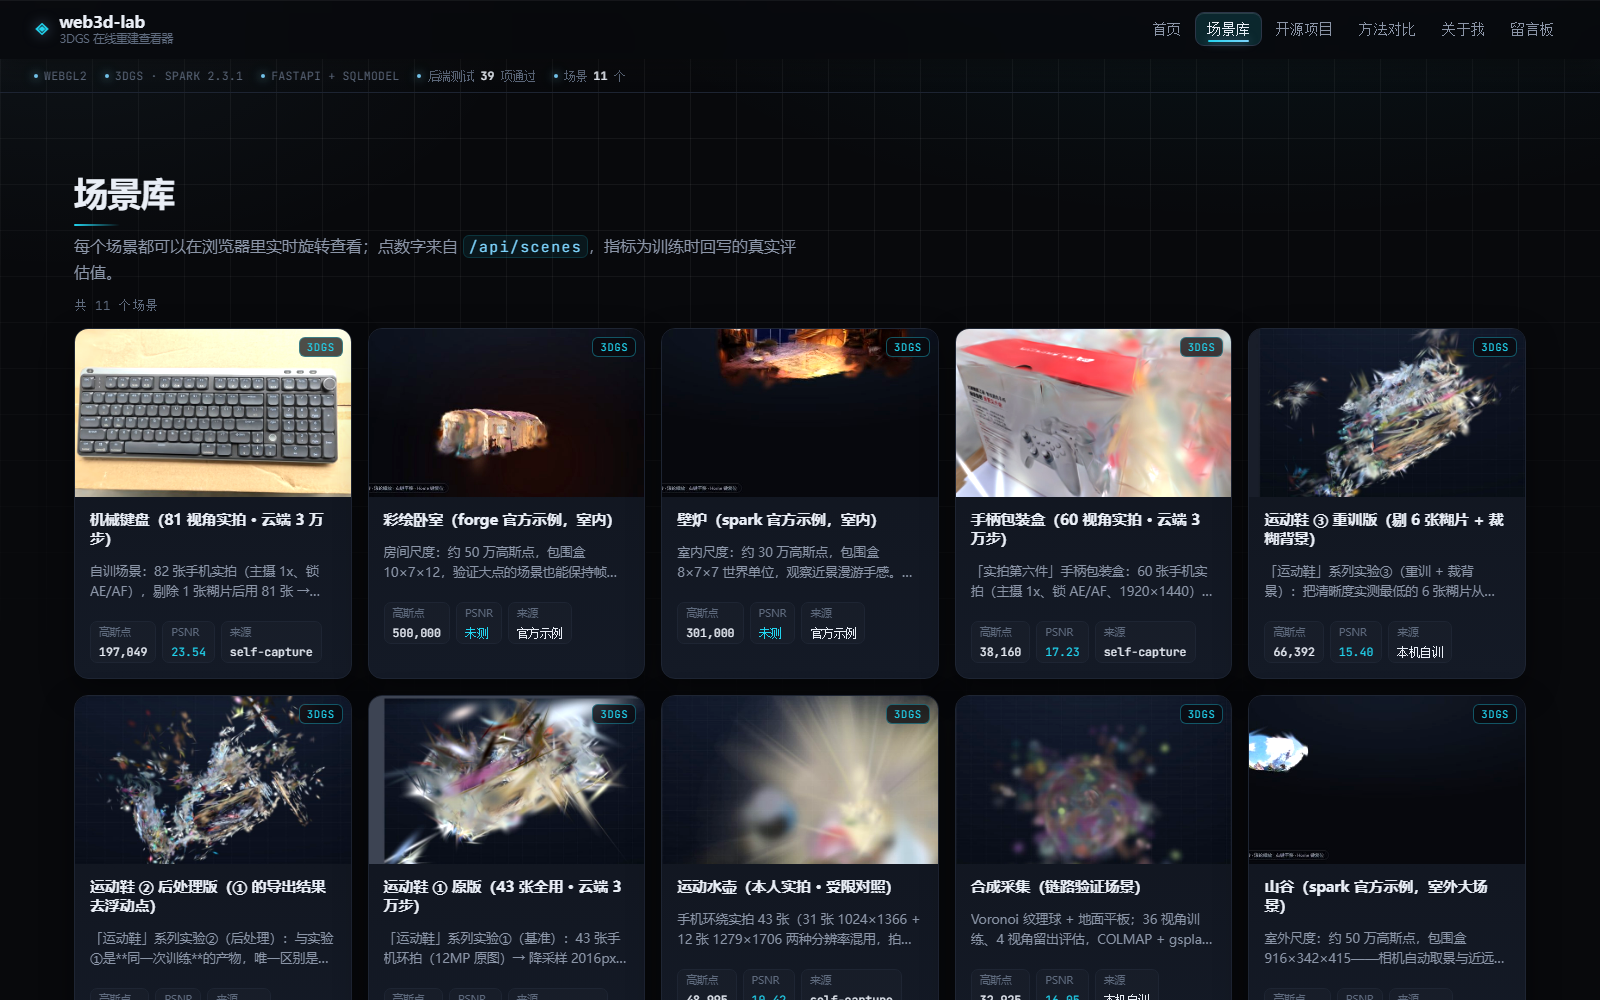
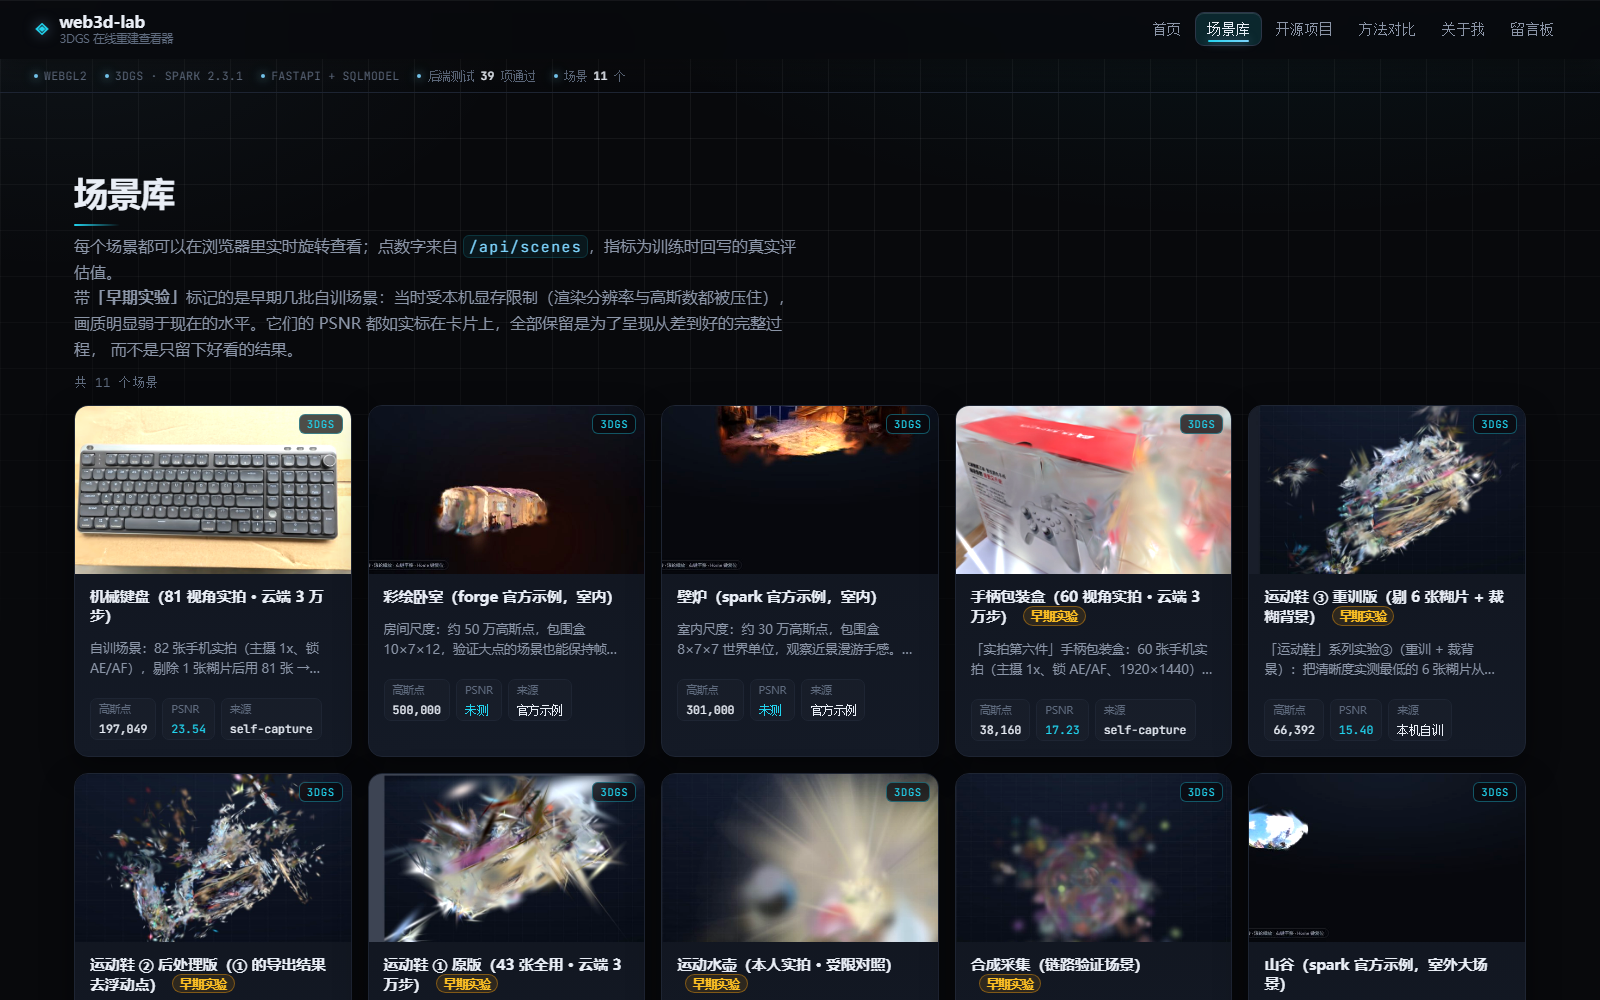
docs(readme): 补 keyboard 场景（最新最好的一批）+ 修两处过时数字 + 记「早期实验」标记与窄屏字号下限
README 停在 keyboard 上线之前：资产表缺 keyboard 行、还写着「自训导出 6 个」「10 个可渲染资产」，
而且 box 那句「目前最好的一批」已过时（keyboard PSNR 23.54 vs box 17.23）。

同时补两段本轮改动：
- 「早期实验」标记的判据（用后端 PSNR < 20 自动判定，不写死名单）与保留理由；
- 窄屏（≤640px）可读性下限（小标签 ≥12px、正文 ≥14px，390px 逐页无横向溢出）。
README 截图同步重拍（场景库这张现在带标记）。

diff --git a/README.md b/README.md
@@ -77,10 +77,14 @@ cd D:/lab/web3d-lab/frontend && npm run dev
 `data-camera` / `data-extent` / `data-bbox` / `data-error`），Playwright 与脚本用它断言，
 不用去猜画面。相关脚本：`frontend/scripts/check_render.py`（截图像素级判空画布）。
 
+**窄屏（≤640px）可读性下限**：小标签字号 ≥ **12px**、正文 ≥ **14px**；390px 手机宽度下逐页实测
+`scrollWidth` 等于视口宽（无横向溢出）。改之前场景详情页有 20/78 个文字节点小于 13px、最小 11px
+（技术条徽标与查看器操作提示），手机上需要双指放大才看得清 —— 因此把下限抬了一档，只改字号与整段行高，桌面端表现不变。
+
 ## 示例资产（frontend/public/demo/）
 
-目录里有 **10 个可渲染资产**：4 个官方示例 `.spz`（约 19 MB，来自 spark 官方示例清单 `sparkjs.dev`
-的 `examples/assets.json`）+ **6 个自训导出的 `.splat`**（合计约 9.2 MB，见下面第二张表）——
+目录里有 **11 个可渲染资产**：4 个官方示例 `.spz`（约 19 MB，来自 spark 官方示例清单 `sparkjs.dev`
+的 `examples/assets.json`）+ **7 个自训导出的 `.splat`**（合计约 15.2 MB，见下面第二张表）——
 后者才是这个项目的主体：全部由本人拍摄、COLMAP 注册、租云端 GPU 训练、导出上线。
 重新拉取示例资产用 `frontend/scripts/fetch-demo-assets.sh`（**直连 sparkjs.dev 速度为 0，要走本地代理**）。
 
@@ -93,19 +97,24 @@ cd D:/lab/web3d-lab/frontend && npm run dev
 | `painted-bedroom.spz` | 500,000 | 10.3×7.3×11.5 | 正常 |
 | `valley.spz` | 500,000 | 915.9×341.6×414.8 | 正常，需按宽高比取景 |
 
-### 自训导出（6 个，`.splat`）
+### 自训导出（7 个，`.splat`）
 
 表里的点数就是资产内的高斯数（页面上的数字与文件字节数可对账：点数 × 32 字节 = 资产字节数）。
 **训练产物（含 SH3 的完整检查点 `ckpt_30000.ply`、指标、渲染对照图）留档在 [Releases](https://github.com/Shawn100861224/web3d-lab/releases)**，供复现与异地备份。
 
 | 文件 | 点数 | 体积 | 数据来源与指标（留出视角 = 没参与训练的视角） |
 |---|---|---|---|
-| `box.splat` **（目前最好的一批）** | 38,160 | 1.16 MB | 60 张手机实拍 → COLMAP **60/60（100%）** → 云端 30000 步全分辨率；**PSNR 17.23 / SSIM 0.8506** |
+| `keyboard.splat` **（目前指标最好的一批）** | 197,049 | 6.01 MB | 82 张手机实拍（主摄 1x、锁 AE/AF）→ 剔 1 张糊片后 81 张；这批混了 4 种分辨率、亮度极差 40.8，先竖转横再统一 1920×1440 + 亮度归一 → COLMAP **69/81（85.2%）**、35,217 稀疏点 → 云端 RTX 4080S **30000 步**；**PSNR 23.54 / SSIM 0.8123**（同协议下 box 为 17.23 / 0.8506，**+6.31 dB**） |
+| `box.splat` | 38,160 | 1.16 MB | 60 张手机实拍 → COLMAP **60/60（100%）** → 云端 30000 步全分辨率；PSNR 17.23 / SSIM 0.8506；属早期批次，场景库里带「早期实验」标记 |
 | `shoe.splat` | 66,904 | 2.04 MB | 43 张实拍 → 注册 39/43（90.7%）→ 云端 30000 步；PSNR 14.44 / SSIM 0.7333（原版） |
 | `shoe-clean.splat` | 49,352 | 1.51 MB | 同一次训练 + 只做后处理（指标未重评，页面里已注明） |
 | `shoe-37.splat` | 66,392 | 2.03 MB | 剔除 6 张糊片后重训（37 张）；PSNR **15.41** / SSIM **0.7567** |
 | `bottle.splat` | 48,995 | 1.50 MB | 深色光滑保温杯：43 张里只有 15 个视角注册成功 → PSNR 10.42（**受限对照**，用来佐证「输入决定上限」） |
 | `toy-capture.splat` | 32,925 | 1.00 MB | 合成采集 40 视角（链路验证）→ 7000 步导出；线上实测 35–37 FPS、加载约 0.9s |
+
+**「早期实验」是怎么标的**：判据用**后端返回的 PSNR**（< 20 dB 在前端自动加标记），不是写死名单 —— 当前命中 `bottle` / `shoe` / `shoe-clean` / `shoe-37` / `box` / `toy-capture` 六个早期批次。
+它们是在本机 8 GB 显存下做的（渲染分辨率与高斯数都被压住），画质明显弱于现在的水平；**全部保留并如实标注指标**，
+是为了呈现从差到好的完整过程，而不是只留下好看的结果。
 
 **踩过的坑（模块 8 导出 .spz 时必看）**：`snow-street.spz`（官方示例之一，981,908 点）
 在 spark 2.3.1 下 `numSplats` 能解析成 981,908，但 `getBoundingBox()` 返回**空盒**
